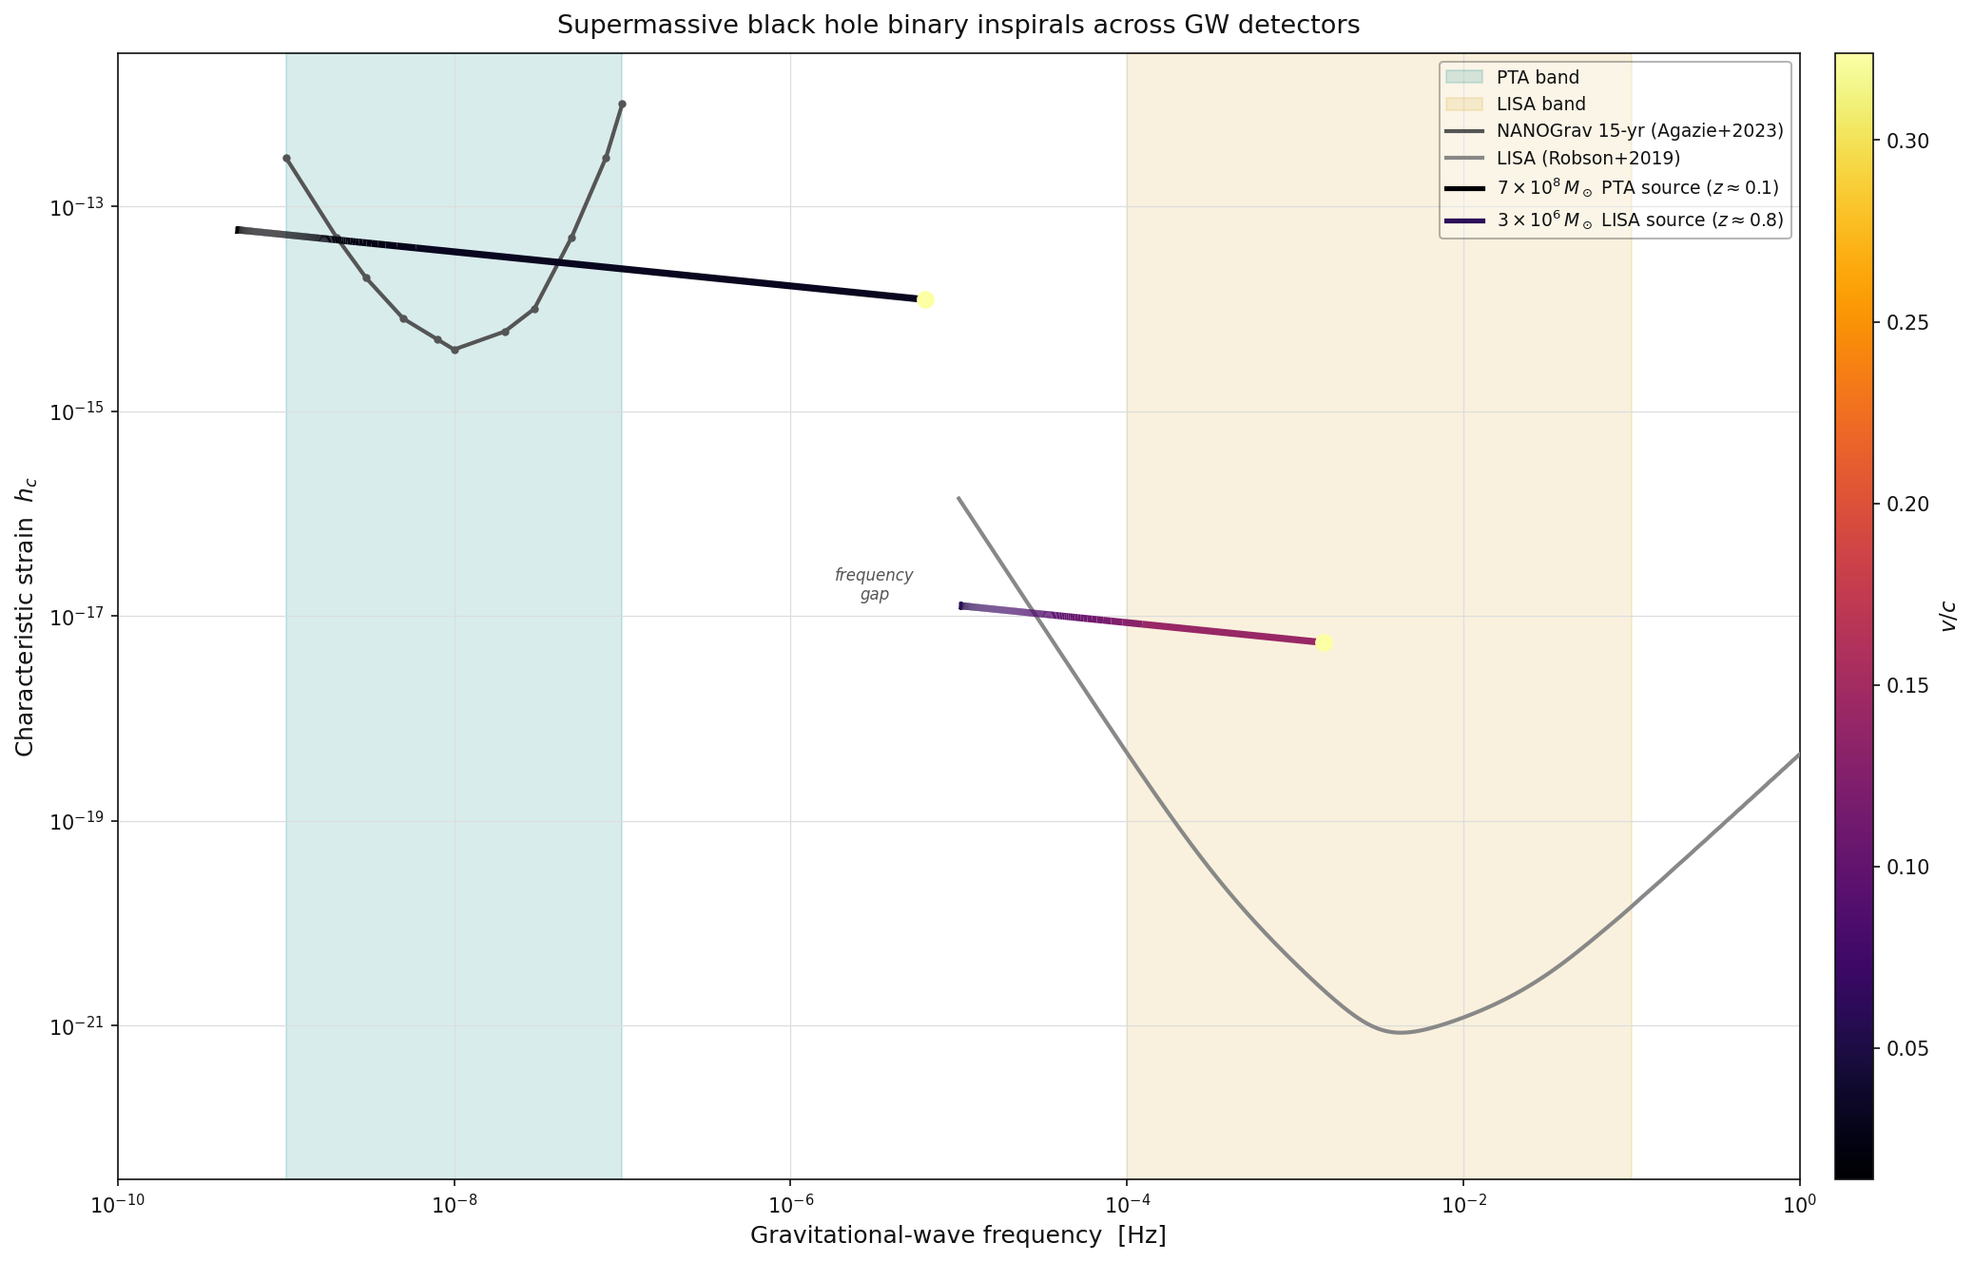
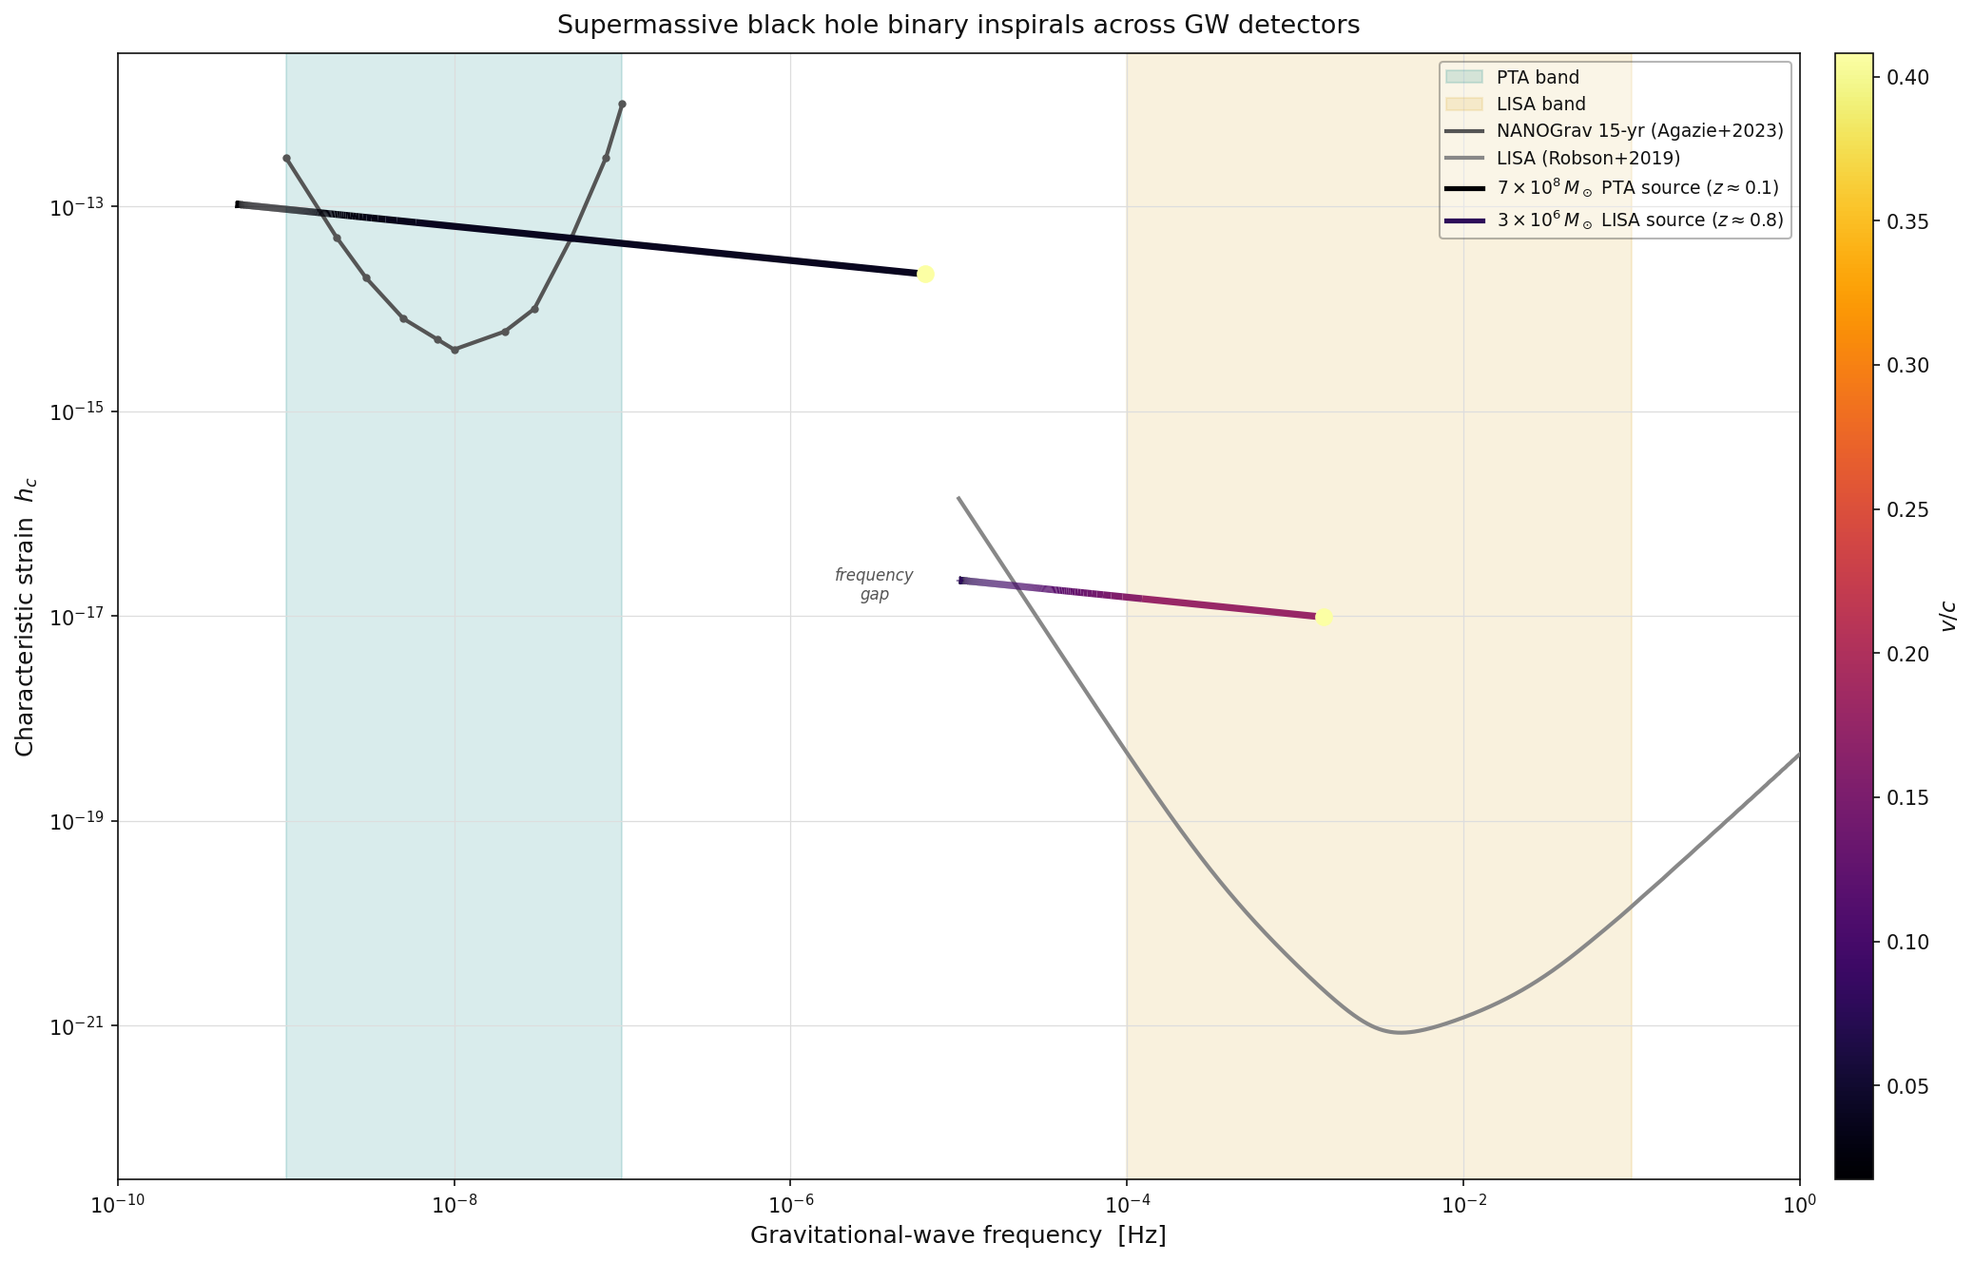
Fix v/c and h_c formulas; sync docs, tests, and regenerated figures
Two correctness fixes to post-processed diagnostic quantities, plus cleanup
of accumulated documentation drift across module docstrings, tests, the
equations doc, and the CLI animation entry point.

v/c (physics.py)
  Removed spurious factor of 2 in the denominator of v_over_c_arr.  The
  correct derivation: v_orb = 2*pi*f_orb*a with Kepler a^3 = G M /
  (4 pi^2 f_orb^2) gives v_orb^3 = 2*pi*G*M*f_orb = pi*G*M*f_GW, so
  v/c = (pi*G*M*f_GW / c^3)^(1/3) and v/c at f_ISCO = 1/sqrt(6) ~ 0.408.
  Previously returned values were 2^(-1/3) ~ 0.79x too small.

h_c (waveform.py)
  Removed spurious factor of sqrt(pi) in the inclination-averaged SPA
  characteristic strain.  Restructured to the canonical Moore, Cole &
  Berry 2014 Eq. 14 form so the prefactor sqrt(2/3)/pi^(2/3) is
  unambiguous and matches sensitivity-curve convention
  SNR^2 = integral h_c^2/h_n^2 d(ln f) with h_n^2 = f S_n(f).
  Previously returned values were 1/sqrt(pi) ~ 0.56x too small; source
  SNR against LISA/NANOGrav curves was underestimated by a factor pi.

Tests
  Re-pinned h_c reference value 3.57e-14 -> 6.39e-14, v/c range
  0.025/0.324 -> 0.032/0.408.  Both pins were enshrining the buggy
  values and passed with the incorrect formulas.

Animation defaults
  Synced the CLI wrapper (scripts/make_animation.py) with the library
  function (animation.py): both now default to m1=7e6, m2=3e6 Msun so
  the chirp sweeps through both the PTA and LISA bands in one clip.
[…]

diff --git a/src/smbhb_inspiral/waveform.py b/src/smbhb_inspiral/waveform.py
@@ -272,10 +272,10 @@ def characteristic_strain_track(
 
     .. math::
 
-       h_c(f) = \\frac{1}{\\pi D_L}
+       h_c(f) = \\frac{1}{D_L}
                 \\sqrt{\\frac{2}{3}}
-                \\frac{(G\\mathcal{M}_c)^{5/6}}{c^{3/2}}
-                (\\pi f)^{-1/6}
+                \\frac{(G\\mathcal{M}_c)^{5/6}}{\\pi^{2/3}\\, c^{3/2}}
+                f^{-1/6}
 
     Parameters
     ----------
@@ -303,13 +303,16 @@ def characteristic_strain_track(
     :math:`h_c \\propto f^{-1/6}`, which is a gentle red tilt — much flatter
     than the :math:`f^{-7/6}` scaling of :math:`|\\tilde{h}(f)|` itself.
 
-    This function is *inclination-averaged* (i.e., sky- and polarization-
-    averaged over all orientations), as appropriate for sensitivity-curve
-    comparisons.  The :math:`\\sqrt{2/3}` pre-factor encodes this average
-    for circular orbits (Sesana et al. 2008, eq. 2).
+    This function is *sky-, polarization-, and inclination-averaged*
+    over all orientations, as appropriate for sensitivity-curve
+    comparisons.  The :math:`\\sqrt{2/3}/\\pi^{2/3}` prefactor encodes
+    this average for circular orbits in the SPA (Moore, Cole & Berry
+    2014, Eq. 14; equivalent to Sesana et al. 2008, Eq. 2).
 
     References
     ----------
+    Moore, C. J., Cole, R. H. & Berry, C. P. L. (2014).
+        Class. Quantum Grav. 32, 015014.  Equation (14).
     Sesana, A., Vecchio, A., & Colacino, C. N. (2008).
         MNRAS, 390, 192.  Equation (2).
     Flanagan, E. E. & Hughes, S. A. (1998).
@@ -338,13 +341,15 @@ def characteristic_strain_analytic(
 
     .. math::
 
-       h_c(f) = \\frac{1}{\\pi D_L}
+       h_c(f) = \\frac{1}{D_L}
                 \\sqrt{\\frac{2}{3}}
-                \\frac{(G\\mathcal{M}_c)^{5/6}}{c^{3/2}}
-                (\\pi f)^{-1/6}
+                \\frac{(G\\mathcal{M}_c)^{5/6}}{\\pi^{2/3}\\, c^{3/2}}
+                f^{-1/6}
 
-    This form is equivalent to Sesana et al. (2008) eq. (2) and is
-    inclination-averaged for circular orbits.
+    This is the sky-, polarization-, and inclination-averaged
+    characteristic strain for a quasi-circular inspiral in the SPA,
+    matching Moore, Cole & Berry (2014) Eq. 14 and Sesana et al.
+    (2008) Eq. 2.
 
     Parameters
     ----------
@@ -376,12 +381,16 @@ def characteristic_strain_analytic(
                 = m^1          s^{0}             m^{-1}
                 = dimensionless  ✓
 
-    The :math:`\\sqrt{2/3}` factor is the RMS sky and inclination average
-    for circularly polarized waves (two independent polarizations, equal
-    power).
+    The :math:`\\sqrt{2/3}/\\pi^{2/3}` prefactor is the sky-,
+    polarization-, and inclination-averaged SPA result for circular
+    orbits, normalized so that the matched-filter SNR is recovered via
+    :math:`\\mathrm{SNR}^2 = \\int h_c^2 / h_n^2 \\,\\mathrm{d}\\ln f`
+    with :math:`h_n^2(f) = f\\, S_n(f)`.
 
     References
     ----------
+    Moore, C. J., Cole, R. H. & Berry, C. P. L. (2014).
+        Class. Quantum Grav. 32, 015014.  Equation (14).
     Sesana, A., Vecchio, A., & Colacino, C. N. (2008).
         MNRAS, 390, 192.  Equation (2).
     Flanagan, E. E. & Hughes, S. A. (1998).
@@ -398,20 +407,22 @@ def characteristic_strain_analytic(
     gm_c: float = G * m_c_kg              # [m^3 s^{-2}]
     gm_c_pow: float = gm_c ** (5.0 / 6.0)
 
-    # Denominator: pi * D_L * c^{3/2}  [m^{5/2} s^{-3/2}]
+    # Denominator: D_L * c^{3/2} * pi^{2/3}
     c_pow: float = c ** (3.0 / 2.0)
+    pi_pow: float = np.pi ** (2.0 / 3.0)
 
-    # Frequency-dependent factor: (pi f)^{-1/6}
-    pi_f: npt.NDArray[np.float64] = np.pi * f_hz   # [s^{-1}]
-    freq_factor: npt.NDArray[np.float64] = pi_f ** (-1.0 / 6.0)  # [s^{1/6}]
+    # Frequency-dependent factor: f^{-1/6}
+    freq_factor: npt.NDArray[np.float64] = f_hz ** (-1.0 / 6.0)  # [s^{1/6}]
 
-    # Inclination/sky average prefactor for circular orbits
+    # Sky + inclination + polarization average prefactor for circular orbits
+    # (Moore, Cole & Berry 2014, Eq. 14; Sesana et al. 2008, Eq. 2).
     avg_factor: float = np.sqrt(2.0 / 3.0)
 
     h_c: npt.NDArray[np.float64] = (
-        (1.0 / (np.pi * d_l_m))
+        (1.0 / d_l_m)
         * avg_factor
         * (gm_c_pow / c_pow)
+        / pi_pow
         * freq_factor
     )
 

diff --git a/src/smbhb_inspiral/scripts/make_animation.py b/src/smbhb_inspiral/scripts/make_animation.py
@@ -7,8 +7,11 @@ Usage
     python -m smbhb_inspiral.scripts.make_animation --m1 5e8 --m2 2e8 --f0 3e-9 \\
         --distance 500 --outpath outputs/my_animation.gif
 
-All parameters default to the L6 reference system (m1=5×10⁸, m2=2×10⁸ M☉,
-f₀=3 nHz, d_L=500 Mpc) per EXECUTION_PLAN.md §7.1.
+Defaults match ``make_inspiral_animation``: m1=7×10⁶, m2=3×10⁶ M☉, f₀=3 nHz,
+d_L=500 Mpc.  This system sweeps through *both* the PTA and LISA bands
+(f_ISCO ≈ 4.4×10⁻⁴ Hz is squarely in LISA) so the animation shows the full
+frequency evolution in one clip.  Pass ``--m1 5e8 --m2 2e8`` to render the
+L6 reference system (PTA-only inspiral) instead.
 """
 
 from __future__ import annotations
@@ -25,11 +28,11 @@ def _build_parser() -> argparse.ArgumentParser:
         formatter_class=argparse.ArgumentDefaultsHelpFormatter,
     )
     p.add_argument(
-        "--m1", type=float, default=5e8, metavar="M_SUN",
+        "--m1", type=float, default=7e6, metavar="M_SUN",
         help="Primary BH mass [solar masses].",
     )
     p.add_argument(
-        "--m2", type=float, default=2e8, metavar="M_SUN",
+        "--m2", type=float, default=3e6, metavar="M_SUN",
         help="Secondary BH mass [solar masses].",
     )
     p.add_argument(

diff --git a/src/smbhb_inspiral/sensitivity.py b/src/smbhb_inspiral/sensitivity.py
@@ -43,6 +43,7 @@ Hazboun, J. S., Romano, J. D., & Smith, T. L. (2019).
 
 from __future__ import annotations
 
+import functools
 import importlib.resources
 from pathlib import Path
 
@@ -249,8 +250,12 @@ def lisa_sensitivity_hc(
 # ---------------------------------------------------------------------------
 
 
+@functools.lru_cache(maxsize=1)
 def _load_nanograv_data() -> tuple[npt.NDArray[np.float64], npt.NDArray[np.float64]]:
     """Load the NANOGrav digitized sensitivity data from the package CSV.
+
+    Cached so animation loops and repeated interpolation calls don't re-parse
+    the CSV on every invocation.
 
     Returns
     -------
@@ -302,7 +307,14 @@ def _load_nanograv_data() -> tuple[npt.NDArray[np.float64], npt.NDArray[np.float
 
     # Ensure ascending frequency order (defensive, CSV is already sorted).
     order = np.argsort(f_hz)
-    return f_hz[order], h_c[order]
+    f_sorted: npt.NDArray[np.float64] = f_hz[order]
+    h_sorted: npt.NDArray[np.float64] = h_c[order]
+
+    # Mark read-only so accidental mutation by a caller doesn't poison the
+    # lru_cache on this function.
+    f_sorted.setflags(write=False)
+    h_sorted.setflags(write=False)
+    return f_sorted, h_sorted
 
 
 def nanograv_15yr_sensitivity_hc() -> (

diff --git a/src/smbhb_inspiral/animation.py b/src/smbhb_inspiral/animation.py
@@ -13,7 +13,10 @@ Design decisions
   blit+imshow class of bugs noted in EXECUTION_PLAN §7.1.
 - Orbit radius is *normalized* (unit circle) so the orbital shrinkage is
   conveyed by the companion panels, not by visual collapse in Panel TL.
-- Reference system default is L6: m1=5e8, m2=2e8 M☉, f₀=3 nHz, d_L=500 Mpc.
+- Default masses are m1=7e6, m2=3e6 M☉, f₀=3 nHz, d_L=500 Mpc.  These were
+  chosen so the chirp sweeps through *both* the PTA and LISA bands in one
+  animation (f_ISCO ≈ 4.4e-4 Hz is squarely in the LISA band).  Pass the
+  L6 reference values (m1=5e8, m2=2e8) if you want a PTA-only inspiral.
 
 References
 ----------
@@ -157,9 +160,10 @@ def make_inspiral_animation(
     Parameters
     ----------
     m1_msun : float
-        Primary mass [M_sun]. Default 5×10⁸ (L6 reference system).
+        Primary mass [M_sun]. Default 7×10⁶ (chosen so the chirp sweeps
+        through both PTA and LISA bands in a single animation).
     m2_msun : float
-        Secondary mass [M_sun]. Default 2×10⁸.
+        Secondary mass [M_sun]. Default 3×10⁶.
     f0_hz : float
         Initial GW frequency [Hz]. Default 3 nHz.
     d_l_mpc : float

diff --git a/tests/test_waveform.py b/tests/test_waveform.py
@@ -118,18 +118,19 @@ def test_strain_cross_negligible_at_edge_on(reference_trajectory) -> None:
 # ---------------------------------------------------------------------------
 
 def test_hc_analytic_reference() -> None:
-    """Verified value: h_c(1e-8 Hz, M_c=2.6976e8 Msun, d_L=500 Mpc) ≈ 3.57e-14.
+    """Verified value: h_c(1e-8 Hz, M_c=2.6976e8 Msun, d_L=500 Mpc) ≈ 6.39e-14.
 
-    The package uses the sky-averaged SPA formula (Sesana et al. 2008, eq. 2)
-    which includes a sqrt(2/3) inclination-averaging factor; the computed value
-    differs slightly from the on-axis formula but is self-consistent.
+    The package uses the sky-, polarization-, and inclination-averaged SPA
+    formula (Moore, Cole & Berry 2014, Eq. 14; Sesana et al. 2008, Eq. 2),
+    normalized so that SNR^2 = integral h_c^2 / h_n^2 d(ln f) with
+    h_n^2 = f S_n(f).
     """
     hc = characteristic_strain_analytic(
         f_hz=np.array([1e-8]),
         chirp_mass_msun=_MC_REF,
         d_l_mpc=_DL_REF,
     )
-    assert hc[0] == pytest.approx(3.57e-14, rel=0.05)
+    assert hc[0] == pytest.approx(6.39e-14, rel=0.05)
 
 
 def test_hc_scales_inversely_with_distance() -> None:

diff --git a/src/smbhb_inspiral/physics.py b/src/smbhb_inspiral/physics.py
@@ -403,7 +403,7 @@ def integrate_inspiral(
 
       .. math::
 
-          v/c = \\left(\\frac{\\pi G M_{\\rm tot} f_{\\rm GW}}{2 c^3}\\right)^{1/3}
+          v/c = \\left(\\frac{\\pi G M_{\\rm tot} f_{\\rm GW}}{c^3}\\right)^{1/3}
 
     References
     ----------
@@ -540,10 +540,12 @@ def integrate_inspiral(
     ) ** (1.0 / 3.0)
 
     # Dimensionless orbital velocity:
-    #   v/c = (pi G M_tot f_GW / (2 c^3))^(1/3)
-    # (equivalent to v/c = 2*pi*f_orb*a / c but avoids the separation)
+    #   v_orb = 2*pi*f_orb*a, with Kepler a^3 = G M_tot / (4 pi^2 f_orb^2)
+    #   => v_orb^3 = 2 pi G M_tot f_orb = pi G M_tot f_GW   (f_orb = f_GW/2)
+    #   => v/c = (pi G M_tot f_GW / c^3)^(1/3)
+    # At f_ISCO this correctly gives v/c = 1/sqrt(6) ~ 0.408.
     v_over_c_arr: npt.NDArray[np.float64] = (
-        math.pi * G * m_tot_kg * f_gw_arr / (2.0 * c ** 3)
+        math.pi * G * m_tot_kg * f_gw_arr / (c ** 3)
     ) ** (1.0 / 3.0)
 
     # ------------------------------------------------------------------

diff --git a/tests/test_integration.py b/tests/test_integration.py
@@ -155,8 +155,8 @@ def test_hc_at_reference_frequency(pipeline_outputs) -> None:
     # Find the point closest to 1e-8 Hz in the track
     idx = np.argmin(np.abs(pipeline_outputs.f_track - 1e-8))
     hc_val = pipeline_outputs.hc_track[idx]
-    # Verified: ~3.57e-14 at exactly 1e-8 Hz; nearby values will be close
-    assert hc_val == pytest.approx(3.57e-14, rel=0.20)   # generous tolerance for off-grid
+    # Verified: ~6.39e-14 at exactly 1e-8 Hz; nearby values will be close
+    assert hc_val == pytest.approx(6.39e-14, rel=0.20)   # generous tolerance for off-grid
 
 
 def test_hc_positive_everywhere(pipeline_outputs) -> None:

diff --git a/tests/test_physics.py b/tests/test_physics.py
@@ -230,7 +230,7 @@ def test_trajectory_f_orb_is_half_f_gw(
 def test_trajectory_v_over_c_range(
     reference_trajectory: InspiralTrajectory,
 ) -> None:
-    """v/c should start near 0.025 and end near 0.32 for the reference system."""
+    """v/c should start near 0.032 and end near 0.41 (=1/sqrt(6) at ISCO) for the reference system."""
     traj = reference_trajectory
-    assert traj.v_over_c[0] == pytest.approx(0.025, rel=0.05)
-    assert traj.v_over_c[-1] == pytest.approx(0.324, rel=0.05)
+    assert traj.v_over_c[0] == pytest.approx(0.032, rel=0.05)
+    assert traj.v_over_c[-1] == pytest.approx(0.408, rel=0.05)

diff --git a/tests/test_animation.py b/tests/test_animation.py
@@ -24,7 +24,7 @@ def test_make_inspiral_animation_renders(tmp_path: Path) -> None:
     """Render a minimal 10-frame animation and assert the GIF exists and is non-empty.
 
     Uses a tiny 320×240 canvas to keep runtime under a few seconds.
-    The L6 reference system defaults are used (m1=5e8, m2=2e8 M☉, f0=3 nHz).
+    The default PTA+LISA sweep system is used (m1=7e6, m2=3e6 M☉, f0=3 nHz).
     """
     import matplotlib
     matplotlib.use("Agg")

diff --git a/docs/equations.md b/docs/equations.md
@@ -131,7 +131,7 @@ the mass ratios relevant to SMBHBs.
 At $f_0 = 3\,\mathrm{nHz}$ with the reference system, $x \approx 4 \times 10^{-4}$
 (weak-field), so the correction is sub-percent.  At ISCO ($f \approx 6\,\mu\mathrm{Hz}$)
 it reaches $\sim\!8\%$, which is why 1PN is the default — the reference system
-reaches $v/c \approx 0.32$ at ISCO, where 0PN is visibly wrong.
+reaches $v/c = 1/\sqrt{6} \approx 0.408$ at ISCO, where 0PN is visibly wrong.
 
 - **Reference:** Blanchet 2014, Living Rev. Relativity **17**, 2 (B14), §7.1, Eq. (234),
   spin-zero limit.
@@ -156,7 +156,7 @@ $$
 
 **Dimensionless orbital velocity:**
 $$
-\frac{v}{c} = \left(\frac{\pi G M_\mathrm{tot} f_\mathrm{GW}}{2\,c^3}\right)^{1/3}
+\frac{v}{c} = \left(\frac{\pi G M_\mathrm{tot} f_\mathrm{GW}}{c^3}\right)^{1/3}
 $$
 
 - **Implemented in:** `src/smbhb_inspiral/physics.py`, function `integrate_inspiral`,
@@ -211,24 +211,27 @@ Under the stationary-phase approximation (SPA) for a quasi-circular, GW-driven
 inspiral, this evaluates to
 
 $$
-h_c(f) = \frac{1}{\pi D_L}
+h_c(f) = \frac{1}{D_L}
           \sqrt{\frac{2}{3}}
-          \frac{(G\mathcal{M}_c)^{5/6}}{c^{3/2}}
-          (\pi f)^{-1/6}
+          \frac{(G\mathcal{M}_c)^{5/6}}{\pi^{2/3}\, c^{3/2}}
+          f^{-1/6}
 $$
 
 The spectrum scales as $h_c \propto f^{-1/6}$, which is a gentle red tilt — much
 flatter than $|\tilde{h}(f)| \propto f^{-7/6}$.
 
-The $\sqrt{2/3}$ prefactor is the RMS sky and inclination average for circularly
-polarized waves (two independent polarizations with equal power), appropriate for
-comparing against PTA / LISA sensitivity curves.
+The $\sqrt{2/3}/\pi^{2/3}$ prefactor encodes the sky, polarization, and inclination
+average for a circular inspiral in the SPA, normalized so that the matched-filter
+signal-to-noise ratio is recovered via $\mathrm{SNR}^2 = \int h_c^2/h_n^2 \,
+\mathrm{d}\ln f$ with $h_n^2(f) = f\,S_n(f)$.  This is the convention used throughout
+the LISA / PTA sensitivity-curve literature (Moore, Cole & Berry 2014, Eq. 14).
 
 **Scope:** the SPA formula assumes the inspiral spends many cycles near each
 frequency, which holds throughout the PTA and LISA bands for SMBHB systems.  It
 is **not** valid during merger or ringdown, which are not modeled by this package.
 
-- **Reference:** Sesana, Vecchio & Colacino 2008, MNRAS 390, 192, Eq. (2);
+- **Reference:** Moore, Cole & Berry 2014, Class. Quantum Grav. 32, 015014, Eq. (14);
+  Sesana, Vecchio & Colacino 2008, MNRAS 390, 192, Eq. (2);
   Flanagan & Hughes 1998, Phys. Rev. D 57, 4535, App. B.
 - **Implemented in:** `src/smbhb_inspiral/waveform.py`, function
   `characteristic_strain_analytic` (line ~329); called by

diff --git a/README.md b/README.md
@@ -111,7 +111,7 @@ print(result.recovery_sawtooth_stripe82)   # e.g. 0.09
 
 1. **Observer-frame vs source-frame f_ISCO.** My first cut at the band classifier in tng-smbhb-population was using source-frame ISCO frequencies to assign systems to PTA vs LISA vs gap. That inflated the LISA-band counts because high-redshift systems appear at lower observed frequency. Fixed by dividing by (1+z) to get the observer-frame frequency before classifying.
 
-2. **1PN breaks down near merger.** The 1PN correction helps when v/c is around 0.1-0.3 but falls apart as you get close to the ISCO where v/c approaches 0.3 and higher. I noticed the frequency evolution was going nonphysical in the last few orbits. The animation freezes before ISCO rather than trying to continue into a regime where the approximation is actively wrong.
+2. **1PN breaks down near merger.** The 1PN correction helps when v/c is around 0.1-0.3 but falls apart as you get close to the ISCO where v/c approaches 1/sqrt(6) ≈ 0.41. I noticed the frequency evolution was going nonphysical in the last few orbits. The animation freezes before ISCO rather than trying to continue into a regime where the approximation is actively wrong.
 
 ## Limitations
 
@@ -119,7 +119,7 @@ print(result.recovery_sawtooth_stripe82)   # e.g. 0.09
 
 2. **No environmental coupling.** Orbital decay at 0.01-1 pc is driven by stellar scattering and circumbinary gas torques, not GW emission. GW-only evolution is valid only where radiation reaction dominates, roughly below ~0.01 pc for a 10^8 M_sun binary. At larger separations the environment sets the timescale, not the quadrupole formula. See Haiman, Kocsis & Menou (2009).
 
-3. **1PN accuracy breaks down at v/c above 0.3.** The waveform is unreliable in the last few orbits before merger. If you need accurate merger waveforms, use numerical relativity surrogates.
+3. **1PN accuracy breaks down at v/c above ~0.3.** The waveform is unreliable in the last few orbits before merger (the reference system hits v/c = 1/sqrt(6) ≈ 0.41 at ISCO). If you need accurate merger waveforms, use numerical relativity surrogates.
 
 4. **No full cosmological corrections on the GW side.** The EM detectability module applies the (1+z) period correction correctly. But the GW strain and sensitivity comparisons don't apply redshifted-frequency or luminosity-distance corrections beyond the 1/D_L amplitude factor. Source-frame and observer-frame frequencies are not distinguished in the trajectory output.
 
